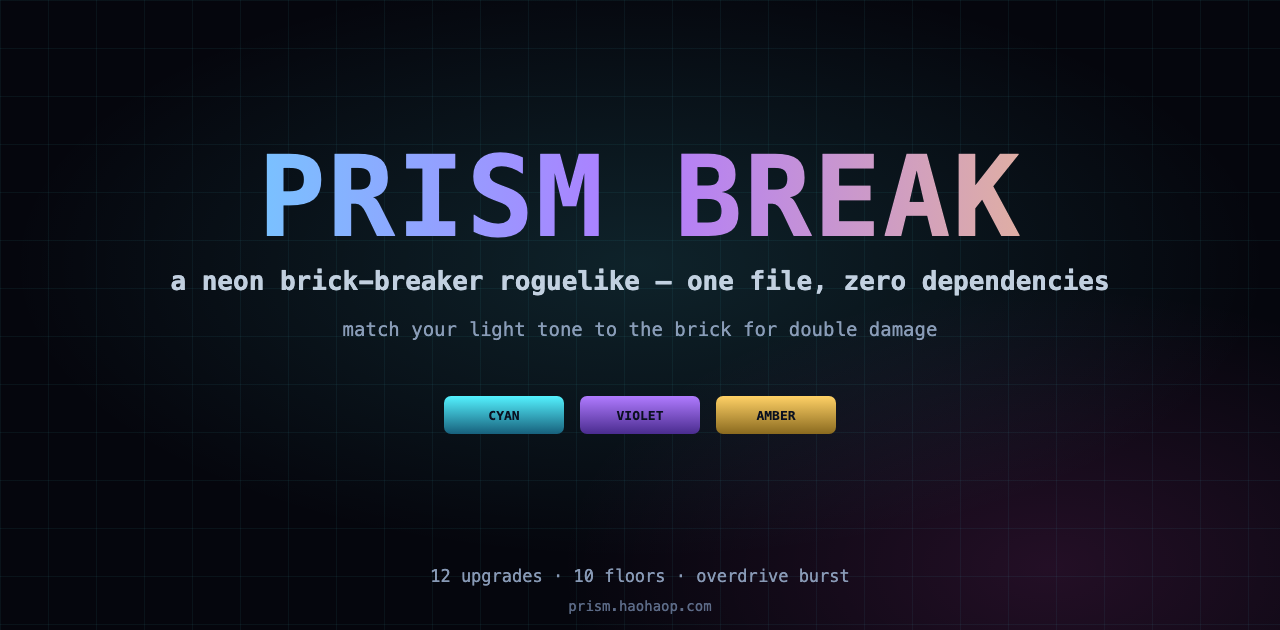
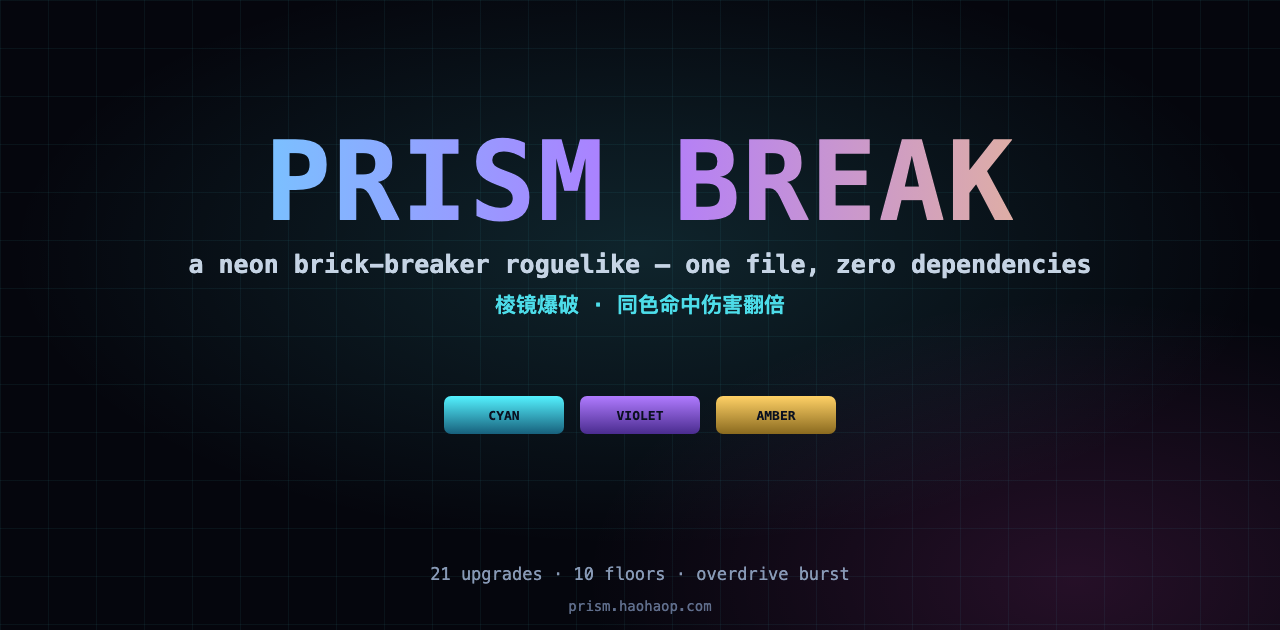
Bilingual README, refreshed social preview and screenshot

Changed region(s): [[0.125, 0.2111, 0.875, 0.5429], [0.3438, 0.9048, 0.6562, 0.9349]]

diff --git a/assets/og.html b/assets/og.html
@@ -1,30 +1,31 @@
 <!doctype html>
 <html><head><meta charset="utf-8"><style>
   html,body{margin:0;padding:0;width:1280px;height:630px;overflow:hidden;background:#05060d;
-    font-family:ui-monospace,SFMono-Regular,Menlo,monospace;color:#eafcff}
+    font-family:ui-monospace,Menlo,"PingFang SC","Hiragino Sans GB","Microsoft YaHei",sans-serif;color:#eafcff}
   .wrap{position:relative;width:1280px;height:630px;
-    background:radial-gradient(900px 420px at 50% 42%,rgba(84,242,255,.12),transparent 70%),
-               radial-gradient(700px 400px at 82% 90%,rgba(255,79,216,.12),transparent 70%),#05060d}
+    background:radial-gradient(900px 420px at 50% 40%,rgba(84,242,255,.13),transparent 70%),
+               radial-gradient(700px 400px at 84% 92%,rgba(255,79,216,.13),transparent 70%),#05060d}
   .grid{position:absolute;inset:0;background-image:linear-gradient(rgba(84,242,255,.055) 1px,transparent 1px),
     linear-gradient(90deg,rgba(84,242,255,.055) 1px,transparent 1px);background-size:48px 48px}
-  .title{position:absolute;left:0;right:0;top:132px;text-align:center;font-size:112px;font-weight:900;letter-spacing:2px;
+  .title{position:absolute;left:0;right:0;top:118px;text-align:center;font-size:110px;font-weight:900;letter-spacing:2px;
     background:linear-gradient(90deg,#54f2ff 0%,#b07bff 50%,#ffd166 100%);-webkit-background-clip:text;background-clip:text;color:transparent}
-  .sub{position:absolute;left:0;right:0;top:266px;text-align:center;font-size:26px;font-weight:600;color:rgba(214,228,245,.9)}
-  .line{position:absolute;left:0;right:0;top:318px;text-align:center;font-size:19px;color:rgba(160,180,210,.85)}
+  .sub{position:absolute;left:0;right:0;top:250px;text-align:center;font-size:25px;font-weight:600;color:rgba(214,228,245,.92)}
+  .cn{position:absolute;left:0;right:0;top:290px;text-align:center;font-size:21px;font-weight:700;color:rgba(84,242,255,.9)}
+  .line{position:absolute;left:0;right:0;top:332px;text-align:center;font-size:18px;color:rgba(160,180,210,.85)}
   .row{position:absolute;left:0;right:0;top:396px;display:flex;gap:16px;justify-content:center}
   .b{width:120px;height:38px;border-radius:7px;display:flex;align-items:center;justify-content:center;
      font-size:13px;font-weight:800;color:#0a1020}
-  .stat{position:absolute;left:0;right:0;bottom:44px;text-align:center;font-size:17px;color:rgba(150,170,200,.9)}
-  .hint{position:absolute;left:0;right:0;bottom:16px;text-align:center;font-size:14px;color:rgba(120,140,175,.75)}
+  .stat{position:absolute;left:0;right:0;bottom:46px;text-align:center;font-size:17px;color:rgba(150,170,200,.9)}
+  .hint{position:absolute;left:0;right:0;bottom:16px;text-align:center;font-size:14px;color:rgba(120,140,175,.78)}
 </style></head><body><div class="wrap"><div class="grid"></div>
   <div class="title">PRISM BREAK</div>
   <div class="sub">a neon brick-breaker roguelike — one file, zero dependencies</div>
-  <div class="line">match your light tone to the brick for double damage</div>
+  <div class="cn">棱镜爆破 · 同色命中伤害翻倍</div>
   <div class="row">
     <div class="b" style="background:linear-gradient(180deg,#54f2ff,#17607c)">CYAN</div>
     <div class="b" style="background:linear-gradient(180deg,#b07bff,#4a2c8f)">VIOLET</div>
     <div class="b" style="background:linear-gradient(180deg,#ffd166,#8a6a1f)">AMBER</div>
   </div>
-  <div class="stat">12 upgrades · 10 floors · overdrive burst</div>
+  <div class="stat">21 upgrades · 10 floors · overdrive burst</div>
   <div class="hint">prism.haohaop.com</div>
 </div></body></html>

diff --git a/README.md b/README.md
@@ -1,58 +1,95 @@
-# PRISM BREAK
+# PRISM BREAK · 棱镜爆破
 
-A neon brick-breaker roguelike in a single HTML file. No build step, no dependencies, no assets — every brick, card and sound is generated by code.
+一款塞进单个 HTML 文件的霓虹打砖块 Roguelike。零构建、零依赖、零素材 —— 每一块砖、每一张卡、每一个音效都由代码生成。
 
-**Play it: <https://prism.haohaop.com>**
+**在线玩：<https://prism.haohaop.com>** · 界面默认中文，菜单里可一键切英文
 
 ![PRISM BREAK](assets/screenshot.png)
 
-## The twist: light tones
+## 玩法核心：光色共鸣
 
-Most brick-breakers only ask you to keep the ball alive. Here the ball carries one of three light tones — **cyan, violet, amber** — and every brick is tinted with one of the same three.
+大多数打砖块只要求你「接住球」。这里球带着一种**光色**（青 / 紫 / 金），每块砖也染着三种色之一。
 
-Hit a brick whose tone matches your light and it takes **double damage**, scores more, and charges your overdrive faster. So you are constantly deciding: chase the ball, or spend a beat switching tone to break the right column.
+**球色与砖色相同 → 伤害翻倍**，得分更高，超载槽充得更快。于是每一秒你都在做选择：追球，还是花半拍切个色去打对的那一列。
 
-| Key | Action |
+另外每层都混着特殊的砖：会**再生**的、被击中会**翻转你的光色**的、破了会**炸开邻居**的、永远不会碎的钢柱，还有会**整行左右漂移**的砖墙。
+
+| 按键 | 动作 |
 | --- | --- |
-| `Q` / `E` | shift light tone (or click the swatches) |
-| `1` `2` `3` | jump straight to a tone |
-| `Shift` | spend a full **overdrive** meter |
-| mouse / arrows | move paddle |
-| click / `space` | launch ball |
-| `P` | pause |
-| `M` | mute |
+| `Q` / `E` | 切换光色（也可点左下角色块） |
+| `1` `2` `3` | 直接跳到某一种色 |
+| `SHIFT` | 充满后释放**超载爆发** |
+| 鼠标 / 方向键 | 移动挡板（手机上是按住拖动） |
+| 点击 / 空格 | 发球 |
+| `P` | 暂停 · `M` 静音 · `L` 中英切换 |
 
-## Overdrive
+## 超载
 
-Every brick you break charges the meter at the bottom. When it fills, `Shift` fires a prism burst: every brick on the floor takes a hit, the screen flashes, and time drops to a third speed for a moment so you can reposition. Clear a dense floor in one press — or save it for the boss prism.
+每破一块砖都给底部能量条充能。充满时按 `SHIFT` 释放棱镜爆发：全场砖块同时掉血，屏幕闪白，时间降到三分之一速度让你重新站位。一层密集砖块可以一键清空 —— 也可以留到金色核心棱镜。
 
-## Structure
+## 结构
 
-- **10 floors**, each with a different generated layout, growing brick health, and the occasional indestructible strut that forces you out of a comfortable lane.
-- **Every 5th floor** spawns a golden core prism with a deep health pool.
-- **Clear floor 10** for the ending, then keep going into the endless mode.
-- **Roguelike picks**: every cleared floor offers three of twelve upgrades — more balls, wider paddle, piercing shots, blast damage, auto-firing lasers, crits, floor shields, slow-motion cushion, extra lives.
+- **10 层**，每层图案不同、砖块血量递增，越深越有钢柱挡住你的舒适路线。
+- **每 5 层**出现金色核心棱镜，外面套着三片护盾；护盾不破，核心免疫。
+- **打完第 10 层**触发结局，之后可继续进入无尽模式。
+- **21 张强化卡**，清层后三选一：多球、加宽、穿透、爆破、自动激光、暴击、护盾、缓冲、寻踪、分裂、共鸣增幅……以及三张**风险卡**（玻璃 / 狂战 / 易爆），换来高伤害但付出代价。
 
-Twelve upgrades, three max levels each, no duplicates while unpicked. Runs finish in five to fifteen minutes.
+一局 5～15 分钟。
 
-## Run it locally
+## 本地运行
 
 ```bash
 git clone https://github.com/HaoHaoP/prism-break.git
 cd prism-break
 open index.html          # macOS
-# or: python3 -m http.server 8080
+# 或 python3 -m http.server 8080
 ```
 
-That is the whole install. `index.html` is self-contained; you can also just download that one file.
+`index.html` 自包含，也可以只下载这一个文件双击打开。
+
+---
+
+# English
+
+A neon brick-breaker roguelike in a single HTML file. No build step, no dependencies, no assets.
+
+**Play: <https://prism.haohaop.com>** — Chinese UI by default, `L` or the menu button switches to English.
+
+## The twist: light tones
+
+The ball carries one of three light tones — cyan, violet, amber — and every brick is tinted with one of the same three. Hitting a matching brick deals **double damage**, scores more and charges your overdrive faster.
+
+Floors also mix in **regenerating** bricks, **prism cores** that flip your tone on contact, **bombs** that chain to neighbours, indestructible steel struts, and rows that **drift sideways**.
+
+## Overdrive
+
+Breaking bricks charges the meter. At full, `SHIFT` fires a prism burst: every brick takes a hit, the screen flashes, and time drops to a third speed so you can reposition.
+
+## Structure
+
+- 10 floors, each with a generated layout, growing brick health and drifting rows.
+- Every 5th floor spawns a golden core prism guarded by three shield plates — the core is immune until they are gone.
+- Clear floor 10 for the ending, then continue into endless mode.
+- 21 upgrades, three at a time: extra balls, wider paddle, pierce, blast, auto-lasers, crits, shields, cushion, seeker, fork, resonance amp — plus three **risk** cards that trade safety for damage.
+
+## Controls
+
+| Key | Action |
+| --- | --- |
+| `Q` / `E` | shift light tone |
+| `1` `2` `3` | jump to a tone |
+| `Shift` | spend a full overdrive meter |
+| mouse / arrows | move paddle |
+| click / space | launch ball |
+| `P` pause · `M` mute · `L` language | |
 
 ## How it is built
 
-- Plain JavaScript, `requestAnimationFrame`, no framework and no bundler.
-- Canvas 2D with a fixed 960×640 logical resolution, letterboxed to the viewport, DPR-aware.
-- Swept sub-stepping for collision so a fast ball never tunnels through a thin brick, plus anti-stall logic that re-aims a ball that has been grazing empty space.
-- Sound is synthesised live with WebAudio oscillators — there are no `.mp3` files in this repo.
-- Best score persists in `localStorage`.
+- Plain JavaScript, `requestAnimationFrame`, no framework, no bundler.
+- Canvas 2D at a fixed 960×640 logical resolution, letterboxed and DPR-aware.
+- Swept sub-stepping for collision so a fast ball never tunnels through a thin brick, plus anti-stall logic that re-aims a ball grazing empty space.
+- Sound is synthesised live with WebAudio oscillators — there are no audio files in this repo.
+- Best score and deepest floor persist in `localStorage`; the UI language does too.
 
 ## License
 
